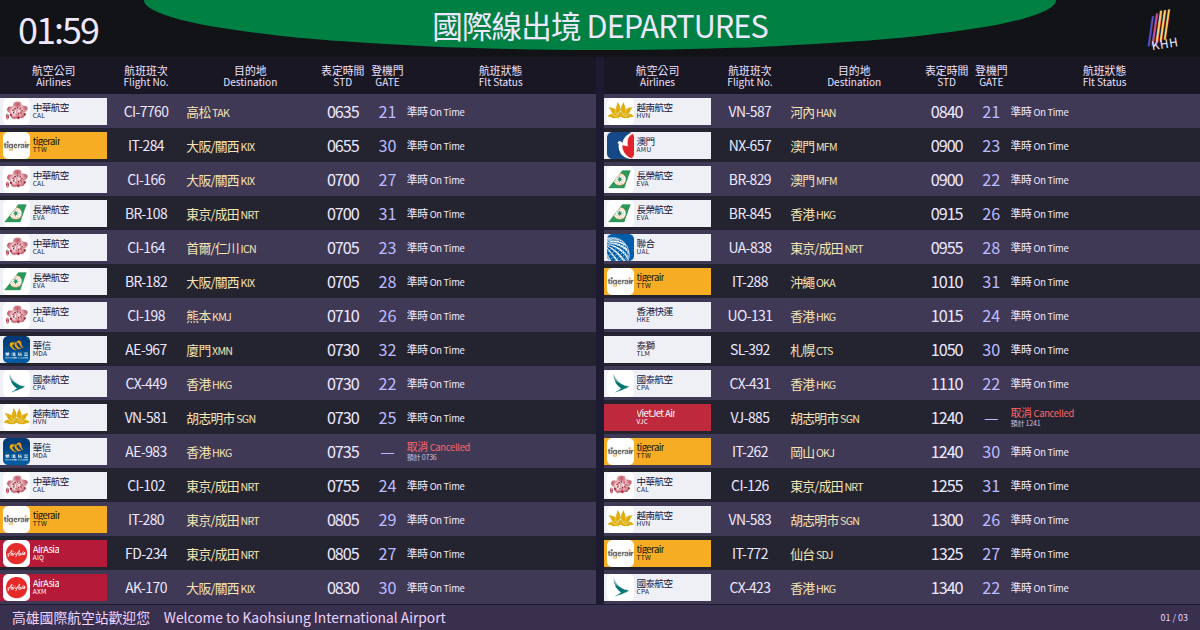
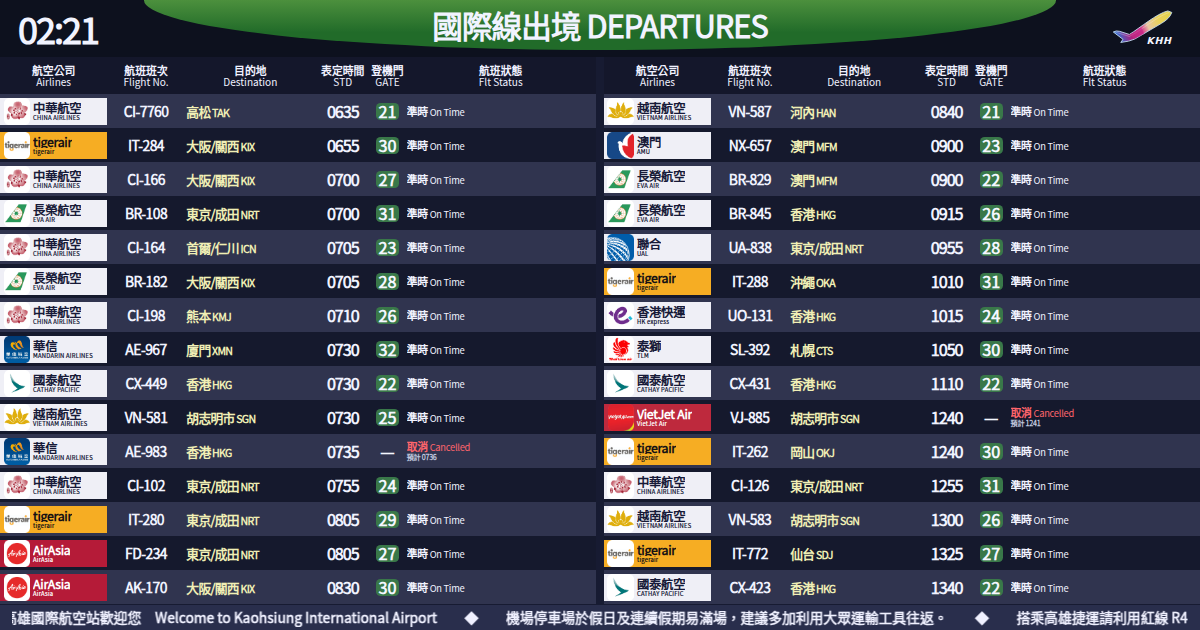
fix: match photographed board styling and add sourced marquee (#3)

diff --git a/public/styles.css b/public/styles.css
@@ -1,7 +1,7 @@
 :root {
-  color-scheme:dark; font-family:"Arial Narrow","Bahnschrift Condensed","Microsoft JhengHei",sans-serif;
-  background:#111015; color:#ede8ff; font-synthesis:none;
-  --green:#008143; --blue:#1919ee; --row-height:clamp(34px,4.4vh,110px); --row-font:clamp(14px,min(1.35vw,3.2vh),54px);
+  color-scheme:dark; font-family:Arial,"Microsoft JhengHei",sans-serif;
+  background:#10121b; color:#f1f3ff; font-synthesis:weight;
+  --green:#216b29; --blue:#173aa9; --row-height:clamp(34px,4.4vh,110px); --row-font:clamp(14px,min(1.35vw,3.2vh),54px);
 }
 *{box-sizing:border-box} body{margin:0} button,input,select{font:inherit}
 button,select,summary{cursor:pointer} button{color:#cbc5dc;background:#24202e;border:1px solid #4a435a;border-radius:3px;padding:.45em .7em}
@@ -14,38 +14,36 @@ button:focus-visible,a:focus-visible,input:focus-visible,select:focus-visible,su
 .tabs{display:flex;gap:3px}.tabs button{background:transparent;border-color:transparent;color:#a79db9}.tabs .selected,#cycle[aria-pressed="true"]{color:#fff;border-color:#777087;background:#383143}
 .tools{display:flex;gap:5px;align-items:center;margin-left:auto}.tools input{width:180px;background:#211d2a;border:1px solid #484051;border-radius:3px;padding:7px 9px;color:#fff}
 .tools select{padding:6px;background:#211d2a;color:#d1c7df;border:1px solid #484051;border-radius:3px}
-.fids{--header:var(--green);display:flex;flex-direction:column;flex:1;min-height:0;background:#1d1b31;border:5px solid #08090c;box-shadow:0 0 0 1px #37333f;overflow:hidden}
-.fids.arrival{--header:var(--blue)}
-.board-title{position:relative;display:flex;align-items:center;justify-content:space-between;min-height:8vh;padding:0 1.5%;isolation:isolate;background:#111316}
-.board-title::before{content:"";position:absolute;top:0;left:12%;width:76%;height:88%;border-radius:0 0 50% 50% / 0 0 100% 100%;background:var(--header);z-index:-1}
+.fids{--header:var(--green);--header-top:#4c903d;display:flex;flex-direction:column;flex:1;min-height:0;background:#171b32;border:5px solid #08090c;box-shadow:0 0 0 1px #37333f;overflow:hidden}
+.fids.arrival{--header:var(--blue);--header-top:#3c5dce}
+.board-title{position:relative;display:flex;align-items:center;justify-content:space-between;min-height:8vh;padding:0 1.5%;isolation:isolate;background:#0d111e}
+.board-title::before{content:"";position:absolute;top:0;left:12%;width:76%;height:88%;border-radius:0 0 50% 50% / 0 0 100% 100%;background:linear-gradient(180deg,var(--header-top),var(--header) 65%);z-index:-1}
 .board-title time{font-size:clamp(24px,3vw,120px);font-weight:750;letter-spacing:-.055em;font-variant-numeric:tabular-nums;line-height:1}
 .board-title h1{position:absolute;left:15%;width:70%;top:15%;text-align:center;font-size:clamp(22px,2.55vw,100px);font-weight:800;white-space:nowrap;line-height:1.05;letter-spacing:-.03em}
-.airport-brand{display:flex;flex-direction:column;align-items:center;font-style:italic;font-size:clamp(12px,1vw,40px);line-height:.8;transform:rotate(-9deg);padding-right:.5em}
-.brand-strokes{font-family:Arial,sans-serif;font-size:2.5em;font-weight:bold;letter-spacing:-.26em;padding-right:.2em;color:#ffce64;text-shadow:-.15em .07em #d24b8c,-.3em .14em #6352bd}
-.airport-brand strong{margin-top:.4em;letter-spacing:.05em}
+.airport-brand{display:block;width:clamp(68px,6.5vw,260px);height:clamp(40px,6vh,144px);object-fit:contain}
 .board{display:grid;grid-template-columns:repeat(2,minmax(0,1fr));gap:.65vw;min-height:0;flex:1;align-items:start;overflow:hidden}
 .board.single{grid-template-columns:minmax(0,1fr)}
-.flight-table{width:100%;table-layout:fixed;border-collapse:collapse;font-size:var(--row-font);font-weight:650;text-align:center}
-.flight-table th{height:6vh;padding:0 .1em;background:#191723;color:#eee1ff;line-height:1.12;vertical-align:middle;font-size:.67em;font-weight:650}
+.flight-table{width:100%;table-layout:fixed;border-collapse:collapse;font-size:var(--row-font);font-weight:700;text-align:center}
+.flight-table th{height:6vh;padding:0 .1em;background:#14172b;color:#f0f1ff;line-height:1.12;vertical-align:middle;font-size:.67em;font-weight:650}
 .flight-table th span{display:block;font-size:.93em;font-weight:500}
 .flight-table td{height:var(--row-height);max-height:var(--row-height);padding:0 .12em;overflow:hidden;white-space:nowrap;text-overflow:ellipsis;line-height:1.02;font-variant-numeric:tabular-nums;border:0}
-.flight-table tbody tr:nth-child(odd){background:#403955}.flight-table tbody tr:nth-child(even){background:#242431}
+.flight-table tbody tr:nth-child(odd){background:#30344f}.flight-table tbody tr:nth-child(even){background:#15192d}
 .flight-table .airline-col{width:18%}.flight-table .number-col{width:13%}.flight-table .place-col{width:22%}.flight-table .scheduled-col{width:9%}.flight-table .gate-col{width:6%}.flight-table .status-col{width:32%}
-.flight-number{letter-spacing:-.04em;font-size:.86em}.place{color:#f7e5b4;text-align:left;font-size:.79em;letter-spacing:-.055em}.place small{margin-left:.15em;font-size:.83em;color:inherit}
-.gate{color:#bcbaff}.scheduled{letter-spacing:-.065em}.airline-cell{padding:0!important}
-.airline-badge{display:flex;align-items:center;justify-content:flex-start;width:100%;height:calc(var(--row-height) * .78);background:#efeff6;color:#191840;overflow:hidden;padding:0 .15em;gap:.1em;font-size:.58em}
+.flight-number{letter-spacing:-.04em;font-size:.86em}.place{color:#f0efb5;text-align:left;font-size:.79em;letter-spacing:-.055em}.place small{margin-left:.15em;font-size:.83em;color:inherit}
+.gate{color:#f4f7ff}.gate-badge{display:inline-block;padding:.02em .17em;border-radius:.28em;background:#397849;line-height:1.05}.scheduled{letter-spacing:-.065em}.airline-cell{padding:0!important}
+.airline-badge{display:flex;align-items:center;justify-content:flex-start;width:100%;height:calc(var(--row-height) * .78);background:#efeff6;color:#171a38;overflow:hidden;padding:0 .15em;gap:.1em;font-size:.75em}
 .airline-badge img{width:29%;height:100%;object-fit:contain;flex-shrink:0}.airline-badge .airline-word{display:flex;flex-direction:column;min-width:0;text-align:left}
-.airline-badge b{overflow:hidden;text-overflow:ellipsis;font-size:1.02em;letter-spacing:-.06em}.airline-badge small{font:italic .7em Arial,sans-serif;letter-spacing:.04em;line-height:1.2}
+.airline-badge b{overflow:hidden;text-overflow:ellipsis;font-size:1.02em;letter-spacing:-.025em}.airline-badge small{font:700 .48em Arial,sans-serif;letter-spacing:.04em;line-height:1.2}
 .airline-badge.tiger{background:#f6ad23;color:#151114}.airline-badge.peach{background:#ad197e;color:#fff}.airline-badge.vietjet{background:#be293d;color:#fff}.airline-badge.airasia{background:#b51b38;color:#fff}
-.flight-status{font-size:.67em;text-align:left;letter-spacing:-.025em}.status-main{display:block;overflow:hidden;text-overflow:ellipsis;color:#f2eaff}.status-english{margin-left:.2em;font-size:.86em;font-weight:500}
-.status-extra{display:block;font-size:.66em;margin-top:.17em;color:#c6bbde}.status-boarding .status-main{color:#64f43a}.status-arrived .status-main,.status-departed .status-main{color:#19bbff}
-.status-delayed .status-main{color:#ff6aa9}.status-cancelled .status-main{color:#ff656c}.status-final .status-main{color:#ffd85b}
+.flight-status{font-size:.67em;text-align:left;letter-spacing:-.025em}.status-main{display:block;overflow:hidden;text-overflow:ellipsis;color:#f1f3ff}.status-english{margin-left:.2em;font-size:.86em;font-weight:500}
+.status-extra{display:block;font-size:.66em;margin-top:.17em;color:#c1c8df}.status-boarding .status-main{color:#8af24e}.status-arrived .status-main,.status-departed .status-main{color:#84e6bc}
+.status-delayed .status-main{color:#f38ebd}.status-cancelled .status-main{color:#ff656c}.status-final .status-main{color:#ffd85b}
 .single .flight-table{font-size:clamp(18px,min(2.35vw,3.7vh),94px)}.single .flight-table th{font-size:.56em}
 .single .flight-table .airline-col{width:18%}.single .flight-table .number-col{width:14%}.single .flight-table .place-col{width:19%}.single .flight-table .scheduled-col{width:9%}.single .flight-table .updated-col{width:9%}.single .flight-table .gate-col{width:6%}.single .flight-table .status-col{width:25%}
-.single .airline-badge{background:transparent;color:#eee4ff;font-size:.73em;gap:.2em}.single .airline-badge img{width:22%;object-fit:contain}.single .airline-word{flex-direction:row;align-items:baseline;gap:.15em}
+.single .airline-badge{background:transparent;color:#f0f2ff;font-size:.73em;gap:.2em}.single .airline-badge img{width:22%;object-fit:contain}.single .airline-word{flex-direction:row;align-items:baseline;gap:.15em}
 .single .airline-badge small{font-size:.9em}.single .flight-status{font-size:.57em}.single .place{font-size:.8em}.single .flight-number{font-size:.85em}
-.announcement{display:flex;justify-content:space-between;align-items:center;gap:1em;background:#39304e;min-height:4vh;padding:0 1%;font-size:clamp(12px,1.15vw,46px);font-weight:700;color:#eed3ff;white-space:nowrap;overflow:hidden}
-.announcement p{overflow:hidden;text-overflow:ellipsis}.announcement #page{font-variant-numeric:tabular-nums;font-size:.65em;flex-shrink:0}
+.announcement{display:flex;justify-content:space-between;align-items:center;gap:1em;background:#292e4c;min-height:4vh;padding:0 1%;font-size:clamp(12px,1.15vw,46px);font-weight:700;color:#f0f1ff;white-space:nowrap;overflow:hidden}
+.announcement p{overflow:hidden;text-overflow:ellipsis}.statusbar #page{font-variant-numeric:tabular-nums;white-space:nowrap;align-self:center}
 .notice{font-family:"Segoe UI","Microsoft JhengHei",sans-serif;padding:6px 12px;background:#4e3f21;color:#ffe2a1;font-size:clamp(11px,.75vw,30px);line-height:1.4}
 .empty{flex:1;display:flex;flex-direction:column;align-items:center;justify-content:center;gap:1em;text-align:center;min-height:200px}.empty h2{font-size:clamp(18px,2vw,70px)}.empty p{font-size:clamp(12px,1vw,40px);color:#b7accb}
 .statusbar,footer{font-family:"Segoe UI","Microsoft JhengHei",sans-serif;display:flex;align-items:center;justify-content:space-between;gap:12px;font-size:11px;color:#a69bae}
@@ -59,7 +57,7 @@ details{position:relative;white-space:nowrap}summary{cursor:pointer}details[open
 @media(max-width:999px){.board{grid-template-columns:minmax(0,1fr)}.flight-table{font-size:clamp(15px,2.8vw,28px)}.single .flight-table{font-size:clamp(16px,3vw,30px)}.board-title h1{font-size:4vw}.board-title time{font-size:4.7vw}.board-title::before{left:15%;width:70%}.flight-table th{height:5vh}.controls{flex-wrap:wrap}.tools{margin-left:auto}.tools select{max-width:110px}#date{display:none}}
 @media(max-width:600px){
   .shell{padding:6px;gap:6px;min-height:680px}.controls{gap:6px}.app-name{display:none}.tabs{width:100%;justify-content:space-between}.tabs button{flex:1;padding:7px 5px}
-  .tools{width:100%}.tools input{flex:1;min-width:0;width:100px}.tools select{max-width:110px}.board-title h1{font-size:4.7vw;top:25%;left:17%;width:66%}.board-title time{font-size:5.5vw}.board-title{min-height:7vh}.airport-brand{font-size:9px}
+  .tools{width:100%}.tools input{flex:1;min-width:0;width:100px}.tools select{max-width:110px}.board-title h1{font-size:4.7vw;top:25%;left:17%;width:66%}.board-title time{font-size:5.5vw}.board-title{min-height:7vh}.airport-brand{width:48px;height:34px}
   .flight-table,.single .flight-table{font-size:clamp(12px,3.2vw,20px)}.flight-table th,.single .flight-table th{font-size:.72em}
   .flight-table .airline-col,.single .flight-table .airline-col{width:18%}.flight-table .number-col,.single .flight-table .number-col{width:14%}.flight-table .place-col,.single .flight-table .place-col{width:21%}
   .flight-table .scheduled-col,.single .flight-table .scheduled-col{width:10%}.flight-table .gate-col,.single .flight-table .gate-col{width:6%}.flight-table .status-col{width:31%}.single .flight-table .status-col{width:22%}.single .flight-table .updated-col{width:9%}

diff --git a/public/index.html b/public/index.html
@@ -19,6 +19,7 @@
   <meta name="twitter:image" content="https://kageryo.github.io/khh-flight-board/social-preview.png">
   <title>KHH Flight Board · 高雄機場航班看板</title>
   <link rel="icon" href="./favicon.svg"><link rel="stylesheet" href="./styles.css">
+  <link rel="stylesheet" href="./marquee.css">
   <script type="module" src="./app.mjs"></script>
 </head>
 <body>
@@ -31,13 +32,13 @@
       <div class="tools"><input id="search" type="search" aria-label="搜尋航班、地點、航空公司" placeholder="搜尋航班 / 地點"><select id="filter" aria-label="篩選航班"><option value="all">全部航班</option><option value="active">未完成航班</option></select><button id="clear-filters" aria-label="清除搜尋與篩選" title="清除搜尋與篩選" hidden>清除</button><button id="share" aria-label="複製看板連結" title="複製看板連結">連結</button><button id="refresh" aria-label="更新航班">↻</button><button id="fullscreen" aria-label="進入全螢幕">⛶</button></div>
     </nav>
     <main class="fids" id="fids" aria-label="機場航班看板">
-      <header class="board-title"><time id="clock">--:--</time><h1><span id="title-zh">國際線出境</span> <span id="title-en">DEPARTURES</span></h1><div class="airport-brand"><span class="brand-strokes" aria-hidden="true">///</span><strong>KHH</strong></div></header>
+      <header class="board-title"><time id="clock">--:--</time><h1><span id="title-zh">國際線出境</span> <span id="title-en">DEPARTURES</span></h1><img class="airport-brand" src="./khh-mark.svg" alt="KHH"></header>
       <div id="notice" class="notice" role="status" hidden></div>
       <section id="board" class="board" aria-label="航班資訊" aria-busy="true"></section>
       <div id="empty" class="empty" hidden><h2 id="empty-title">正在取得航班</h2><p id="empty-copy">請稍候</p></div>
-      <div class="announcement"><p>高雄國際航空站歡迎您　Welcome to Kaohsiung International Airport</p><span id="page">01 / 01</span></div>
+      <div class="announcement"><div id="marquee" class="marquee" aria-label="旅客提醒"><p>高雄國際航空站歡迎您　Welcome to Kaohsiung International Airport</p></div></div>
     </main>
-    <div class="statusbar"><p><span id="live-dot" class="live-dot"></span><strong id="connection">連線中</strong><span id="summary"></span><span id="date"></span></p><div><button id="cycle" aria-pressed="false" title="看完所有頁後切換下一種看板">四看板輪播</button><button id="previous" aria-label="上一頁" aria-keyshortcuts="ArrowLeft" title="上一頁（←）">‹</button><button id="rotate" aria-pressed="true" aria-keyshortcuts="Space" title="暫停或開始輪播（空白鍵）">Ⅱ 暫停輪播</button><button id="next" aria-label="下一頁" aria-keyshortcuts="ArrowRight" title="下一頁（→）">›</button></div></div>
+    <div class="statusbar"><p><span id="live-dot" class="live-dot"></span><strong id="connection">連線中</strong><span id="summary"></span><span id="date"></span></p><div><button id="cycle" aria-pressed="false" title="看完所有頁後切換下一種看板">四看板輪播</button><span id="page" aria-label="航班頁碼">01 / 01</span><button id="previous" aria-label="上一頁" aria-keyshortcuts="ArrowLeft" title="上一頁（←）">‹</button><button id="rotate" aria-pressed="true" aria-keyshortcuts="Space" title="暫停或開始輪播（空白鍵）">Ⅱ 暫停輪播</button><button id="next" aria-label="下一頁" aria-keyshortcuts="ArrowRight" title="下一頁（→）">›</button></div></div>
     <footer><p>最後成功取得 <time id="last-success">尚未成功</time><span id="age"></span><span id="poll-label"></span></p><details><summary>關於資料</summary><p>這是參考高雄機場現場看板製作的非官方專案。航班取自機場公開資料；取得時間不代表官方更新時間，資料也未附航班日期。行程請以機場及航空公司公告為準。<a id="source-link" target="_blank" rel="noreferrer">官方資料 ↗</a></p></details></footer>
   </div>
   <noscript>請啟用 JavaScript 以取得航班資訊。</noscript>

diff --git a/public/marquee.css b/public/marquee.css
@@ -1,0 +1,55 @@
+.announcement .passenger-marquee,
+.passenger-marquee {
+  flex: 1;
+  min-width: 0;
+  max-width: 100%;
+  margin: 0;
+  overflow: hidden;
+  white-space: nowrap;
+  text-overflow: clip;
+}
+.notice-track {
+  display: flex;
+  width: max-content;
+  animation: passenger-notices var(--notice-duration, 100s) linear infinite;
+}
+.notice-group {
+  display: flex;
+  flex: none;
+}
+.notice-group > span {
+  flex: none;
+  padding-inline-end: 4em;
+}
+.passenger-marquee:hover .notice-track {
+  animation-play-state: paused;
+}
+.passenger-marquee:focus-visible {
+  outline: 1px solid currentColor;
+  outline-offset: -1px;
+}
+.passenger-marquee.notice-paused,
+.passenger-marquee:focus-within {
+  overflow-x: auto;
+}
+.notice-paused .notice-track,
+.passenger-marquee:focus-within .notice-track {
+  animation: none;
+}
+.notice-paused .notice-duplicate,
+.passenger-marquee:focus-within .notice-duplicate,
+.notice-paused .notice-group > [aria-hidden],
+.passenger-marquee:focus-within .notice-group > [aria-hidden] {
+  display: none;
+}
+@keyframes passenger-notices {
+  from { transform: translateX(0); }
+  to { transform: translateX(-50%); }
+}
+@media (prefers-reduced-motion: reduce) {
+  .announcement .passenger-marquee,
+  .passenger-marquee { overflow-x: auto; }
+  .notice-track { animation: none; }
+  .notice-duplicate,
+  .notice-group > [aria-hidden] { display: none; }
+}

diff --git a/docs/notices.md b/docs/notices.md
@@ -1,0 +1,18 @@
+# 旅客提醒跑馬燈
+
+`public/notices.json` 收錄依高雄國際航空站官方旅客指南人工整理的簡短提醒；查閱日期為 **2026-10-19（Asia/Taipei）**。這些文字經過摘要，並非機場現場跑馬燈逐字紀錄，也沒有取得現場跑馬燈訊息來源或秒級同步服務。歡迎詞沿用本看板既有的中英文文字。
+
+| 項目 | 官方來源與依據 |
+| --- | --- |
+| 停車與大眾運輸 | [交通資訊：停車場](https://www.kia.gov.tw/TRANS.html)：假日、連續假期易滿場，建議利用大眾運輸。 |
+| 捷運 | [交通資訊：搭乘高雄捷運](https://www.kia.gov.tw/TRANS.html)：紅線 R4；2 號出口通國內航廈、6 號出口通國際航廈。 |
+| 排班計程車 | [交通資訊：排班計程車](https://www.kia.gov.tw/TRANS.html)：國內、國際航廈一樓到站出口路緣候車。 |
+| 報到與行李 | [搭機規定](https://www.kia.gov.tw/FACNSER-onboard.html)：提早報到，並向航空公司確認不同的報到時間與行李限制。 |
+
+未將停車即時容量、費率、運輸班距、航空公司櫃檯分配或其他容易變動的細節寫入提醒。維護時應重新查閱來源頁面，更新文字與 `reviewedAt`，現場指示及航空公司最新公告仍優先適用。
+
+## 整合
+
+頁面載入 `marquee.css`，以 `mountMarquee(document.querySelector('#marquee'))` 掛載在既有歡迎詞容器。模組只讀取同目錄的 `notices.json`，使用 DOM 節點與 `textContent` 呈現文字；網路錯誤、格式錯誤或無有效項目時保留原歡迎詞。`setPaused(true)` 停止動畫並讓完整文字可水平捲動，`destroy()` 還原原內容並取消載入及尺寸監測。
+
+正常模式使用 CSS 連續捲動，重複段落對輔助科技隱藏。滑鼠停留時暫停；鍵盤聚焦、全域暫停及偏好減少動態效果時呈現靜態可水平捲動的文字。模組不自行啟動，也沒有逐幀 JavaScript 計時器。

diff --git a/README.md b/README.md
@@ -24,7 +24,9 @@
 
 鍵盤可用 `←`／`→` 翻頁、空白鍵暫停或繼續輪播、`1`–`4` 切換四種看板，全螢幕也適用。在搜尋欄輸入、操作選單或使用組合鍵時不會觸發快捷鍵。
 
-全螢幕會隱藏操作列與頁尾，按 `Esc` 離開；資料過期或連線失敗的警示仍會顯示。國際線採雙欄，國內線採單欄，手機則改為單欄。
+全螢幕會隱藏操作列與頁尾，按 `Esc` 離開；資料過期或連線失敗的警示仍會顯示。國際線採雙欄，國內線採單欄，手機則改為單欄。頁碼只顯示於操作列，全螢幕不顯示。
+
+底部跑馬燈會捲動顯示歡迎詞與[依官方旅客指南整理的提醒](docs/notices.md)；並非機場現場即時公告。暫停輪播也會停止文字捲動，滑鼠停留或鍵盤聚焦亦可暫停；偏好減少動態效果時顯示靜態文字。
 
 線上版透過 GitHub Actions 設定每 5 分鐘取得資料，頁面每 60 秒檢查新快照。**排程可能延遲，請看頁尾的實際取得時間。** 超過 15 分鐘會顯示快取警示；取得時間也不等於官方更新時間，官方資料未附航班日期。
 
@@ -55,6 +57,6 @@ npm run check:freshness
 
 資料更新監測會在發布完成後及設定的每 15 分鐘排程執行，異常時讓 Actions 工作失敗。監測也受 GitHub 排程延遲影響，不保證即時告警。
 
-[資料、快取與部署方式](docs/data.md) · [驗證紀錄](docs/verification.md)
+[外觀參考](docs/appearance.md) · [資料、快取與部署方式](docs/data.md) · [驗證紀錄](docs/verification.md)
 
 程式碼採用 [MIT License](LICENSE)；官方 Logo 與航班資料權利屬原權利人。

diff --git a/docs/verification.md b/docs/verification.md
@@ -30,3 +30,9 @@ Ubuntu／WSL、Node.js 22.23.2、Chromium。語法檢查、18 項自動測試與
 20 項自動測試、語法檢查與四來源實際建置通過。新增的兩項測試確認先看完頁面再換看板、單看板循環及空清單切換。
 
 Chromium 實際操作確認左右鍵翻頁、空白鍵暫停及 `1`–`4` 切換，全螢幕同樣可用；搜尋、選單、組合鍵與輸入法組字不觸發快捷鍵，按鈕上的空白鍵只切換一次。用瀏覽器時鐘推進完整輪播，確認看板順序、空清單切換、暫停與設定保留。清除搜尋和篩選後重新整理仍維持全部航班，390×844 操作列無水平溢出。
+
+## 2026-10-19：實拍配色與跑馬燈
+
+依實拍對照冷藍紫航班列、綠色標頭、薄荷綠離站狀態、登機門綠底牌與重繪的飛機圖樣。頁碼移至操作列；四種全螢幕預覽及分享圖已更新。
+
+原有 20 項測試、語法檢查及四來源實際建置通過。Chromium 確認跑馬燈有移動、滑鼠停留／鍵盤聚焦／暫停輪播會停止、減少動態偏好有效，公告取得失敗時保留歡迎詞。全螢幕無頁碼，圖樣正常載入，1920×1080 與 390×844 無水平溢出。公告文字為依官方指南整理，未宣稱與現場跑馬燈同步。

diff --git a/docs/appearance.md b/docs/appearance.md
@@ -1,0 +1,9 @@
+# 看板外觀參考
+
+總覽以[旅客於 2025 年底拍攝的國際出境看板](https://note.com/gentle_lilac5167/n/n7a9b0ebec474)為主要參考：雙欄、冷藍紫交錯航班列、綠色弧形標頭、淡黃色目的地、薄荷綠離站狀態，以及白字綠底的登機門。
+
+右上角的彩色飛機與 KHH 依照片重繪為 `public/khh-mark.svg`，並非機場提供的原始圖檔。它與機場官網的彩色展翼站徽不同。
+
+照片會受到曝光、白平衡、螢幕反光與拍攝角度影響；目前配色是視覺對照後的近似值，並非官方原始色碼。網頁仍會因螢幕比例調整排版，航空公司識別使用官方公開圖示搭配文字。
+
+參考照片與官方識別權利屬原權利人；照片本身未收錄於本專案。
